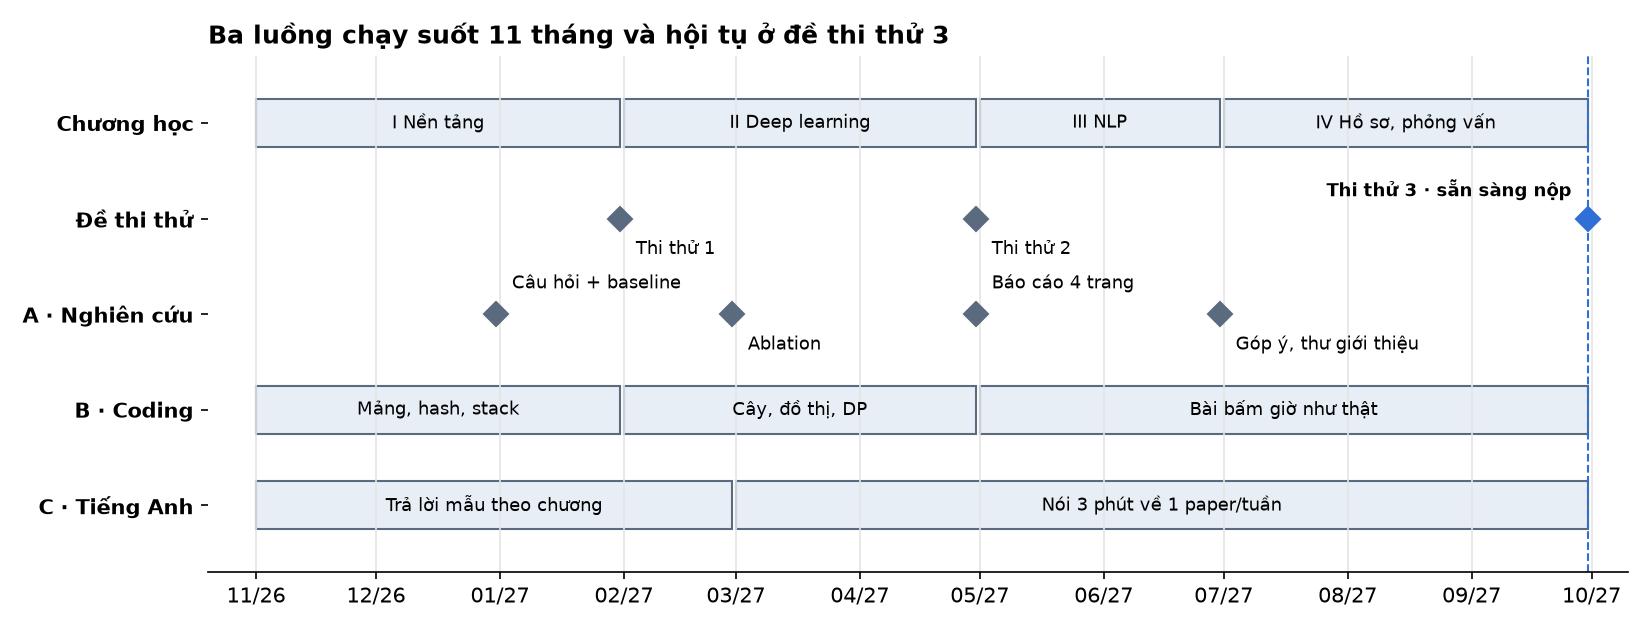
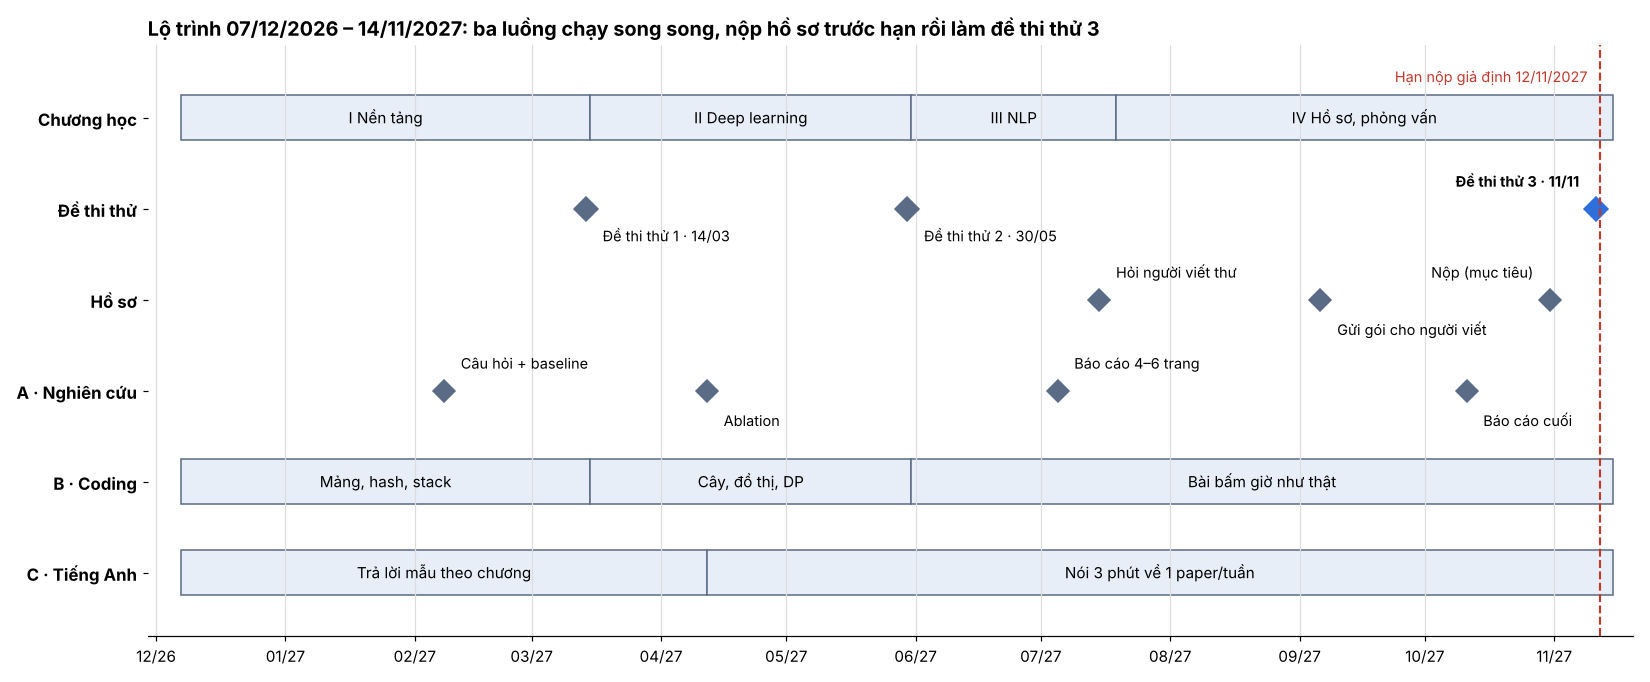
Dời lịch học sang bắt đầu 7/12/2026, giữ các mốc hồ sơ theo hạn nộp
- plan/weeks.yaml: lùi cả 49 tuần 6 tuần (tuần 0 bắt đầu Thứ Hai 7/12/2026).
- Các mốc hồ sơ bám hạn nộp giả định 12/11/2027, không dời theo lịch học:
  hỏi người viết thư trước 15/7 (w31), gửi gói tài liệu ở w39, nhắc 22/10
  và 5/11, mục tiêu nộp trước 31/10/2027 (w46).
- Đề thi thử: 14/3/2027, 30/5/2027, 11/11 và 13/11/2027 (chapters.yaml,
  chương 0, hướng dẫn, ba đề). Đề 3 nay làm sau khi đã nộp hồ sơ.
- Thêm plan/ve_lo_trinh.py và vẽ lại plan/lo-trinh.png theo lịch mới.

Claude-Session: https://claude.ai/code/session_01QKVDojY6bys5j2hGGRQu7z

diff --git a/plan/ve_lo_trinh.py b/plan/ve_lo_trinh.py
@@ -1,0 +1,86 @@
+"""Vẽ lại plan/lo-trinh.png từ plan/weeks.yaml và book/chapters.yaml.
+
+Chạy: python plan/ve_lo_trinh.py   (cần matplotlib, pyyaml)
+Mọi mốc lấy từ ngày bắt đầu tuần trong weeks.yaml, nên khi dời lịch chỉ cần chạy lại.
+"""
+import datetime as dt
+from pathlib import Path
+
+import matplotlib
+matplotlib.use("Agg")
+import matplotlib.dates as mdates
+import matplotlib.pyplot as plt
+import yaml
+
+ROOT = Path(__file__).resolve().parents[1]
+weeks = {w["id"]: w for w in yaml.safe_load((ROOT / "plan/weeks.yaml").read_text(encoding="utf-8"))["weeks"]}
+mocks = yaml.safe_load((ROOT / "book/chapters.yaml").read_text(encoding="utf-8"))["mock_tests"]
+
+
+def d(x):
+    return x if isinstance(x, dt.date) else dt.date.fromisoformat(str(x))
+
+
+def start(wid):
+    return d(weeks[wid]["start"])
+
+
+def end(wid):
+    return start(wid) + dt.timedelta(days=7)
+
+
+# Hạn nộp hồ sơ là GIẢ ĐỊNH (mục 13.4), không dời theo lịch học.
+DEADLINE = dt.date(2027, 11, 12)
+
+rows = ["Chương học", "Đề thi thử", "Hồ sơ", "A · Nghiên cứu", "B · Coding", "C · Tiếng Anh"]
+y = {r: len(rows) - i for i, r in enumerate(rows)}
+bars = {
+    "Chương học": [("w00", "w13", "I Nền tảng"), ("w14", "w24", "II Deep learning"),
+                   ("w25", "w31", "III NLP"), ("w32", "w48", "IV Hồ sơ, phỏng vấn")],
+    "B · Coding": [("w00", "w13", "Mảng, hash, stack"), ("w14", "w24", "Cây, đồ thị, DP"),
+                   ("w25", "w48", "Bài bấm giờ như thật")],
+    "C · Tiếng Anh": [("w00", "w17", "Trả lời mẫu theo chương"), ("w18", "w48", "Nói 3 phút về 1 paper/tuần")],
+}
+points = {
+    "A · Nghiên cứu": [(start("w09"), "Câu hỏi + baseline"), (start("w18"), "Ablation"),
+                       (start("w30"), "Báo cáo 4–6 trang"), (start("w44"), "Báo cáo cuối")],
+    "Hồ sơ": [(dt.date(2027, 7, 15), "Hỏi người viết thư"), (start("w39"), "Gửi gói cho người viết"),
+              (dt.date(2027, 10, 31), "Nộp (mục tiêu)")],
+}
+
+fig, ax = plt.subplots(figsize=(15, 6.2), dpi=110)
+for row, segs in bars.items():
+    for a, b, label in segs:
+        x0, x1 = mdates.date2num(start(a)), mdates.date2num(end(b))
+        ax.barh(y[row], x1 - x0, left=x0, height=0.5, color="#e8eef7", edgecolor="#5a6b85")
+        ax.text((x0 + x1) / 2, y[row], label, ha="center", va="center", fontsize=10)
+for row, pts in points.items():
+    for i, (day, label) in enumerate(pts):
+        ax.plot(mdates.date2num(day), y[row], "D", color="#5a6b85", ms=10)
+        right = i == len(pts) - 1 and row == "Hồ sơ"  # nhãn cuối nằm sát hạn nộp: đặt sang trái
+        ax.text(mdates.date2num(day) + (-4 if right else 4), y[row] + (0.3 if i % 2 == 0 else -0.33), label,
+                fontsize=9.5, va="center", ha="right" if right else "left")
+for i, m in enumerate(mocks):
+    last = i == len(mocks) - 1
+    ax.plot(mdates.date2num(d(m["date"])), y["Đề thi thử"], "D", color="#2f6fdb" if last else "#5a6b85", ms=11)
+    ax.text(mdates.date2num(d(m["date"])) + (-4 if last else 4), y["Đề thi thử"] + (0.3 if last else -0.3),
+            f"{m['name']} · {d(m['date']):%d/%m}", fontsize=9.5, ha="right" if last else "left",
+            fontweight="bold" if last else "normal", va="center")
+ax.axvline(mdates.date2num(DEADLINE), color="#c0392b", ls="--", lw=1.4)
+ax.text(mdates.date2num(DEADLINE) - 3, y["Chương học"] + 0.45, "Hạn nộp giả định 12/11/2027",
+        color="#c0392b", fontsize=9.5, ha="right", va="center")
+
+ax.set_yticks(list(y.values()), list(y.keys()), fontsize=11, fontweight="bold")
+ax.xaxis.set_major_locator(mdates.MonthLocator())
+ax.xaxis.set_major_formatter(mdates.DateFormatter("%m/%y"))
+ax.set_xlim(mdates.date2num(start("w00")) - 8, mdates.date2num(end("w48")) + 5)
+ax.set_ylim(0.3, len(rows) + 0.8)
+ax.grid(axis="x", color="#dddddd")
+for s in ("top", "right", "left"):
+    ax.spines[s].set_visible(False)
+ax.set_title(f"Lộ trình {start('w00'):%d/%m/%Y} – {end('w48') - dt.timedelta(days=1):%d/%m/%Y}: "
+             "ba luồng chạy song song, nộp hồ sơ trước hạn rồi làm đề thi thử 3",
+             loc="left", fontsize=13, fontweight="bold")
+fig.tight_layout()
+fig.savefig(ROOT / "plan/lo-trinh.png")
+print("Đã ghi", ROOT / "plan/lo-trinh.png")

diff --git a/book/thi-thu-3.md b/book/thi-thu-3.md
@@ -2,7 +2,7 @@
 
 ## Cách làm
 
-Đây là đề cuối của sách. Bạn làm nó ở tuần 48, vào hoặc quanh Thứ Năm 30/9/2027 (ngày ghi trong `book/chapters.yaml`), sau khi đã học xong chương 0–14. Lộ trình giao cho đề việc `w48-run`, 4 giờ: "Làm Đề thi thử 3 theo từng vòng, đúng giờ; sau đó chấm và ghi lỗi vào sổ lỗi". Đề có bốn vòng, xếp theo đúng thứ tự công khai của quy trình tuyển: entrance test, coding interview, video presentation, technical interview. Đề có hai mục đích. Một là đo lần cuối cả kiến thức lẫn cách trình bày khi bị bấm giờ. Hai là giúp bạn quyết định dùng mấy tuần còn lại trước hạn nộp hồ sơ vào việc gì.
+Đây là đề cuối của sách. Bạn làm nó ở tuần 48, vào hoặc quanh Thứ Năm 11/11/2027 (ngày ghi trong `book/chapters.yaml`), sau khi đã học xong chương 0–14. Lộ trình giao cho đề việc `w48-run`, 4 giờ: "Làm Đề thi thử 3 theo từng vòng, đúng giờ; sau đó chấm và ghi lỗi vào sổ lỗi". Đề có bốn vòng, xếp theo đúng thứ tự công khai của quy trình tuyển: entrance test, coding interview, video presentation, technical interview. Đề có hai mục đích. Một là đo lần cuối cả kiến thức lẫn cách trình bày khi bị bấm giờ. Hai là giúp bạn quyết định luyện gì cho các vòng sau Application. Theo lịch, bạn đã nộp hồ sơ ở tuần 46 nên đề này làm sau khi nộp.
 
 **Lưu ý trung thực.** Tin tuyển Batch 17 của Qualcomm RRP (đăng 13/10/2026, mức B) chỉ liệt kê năm vòng: Application → Entrance test → Coding interview → Video presentation → Technical interview. Nội dung, thời lượng, định dạng và tiêu chí chấm của bốn vòng sau Application đều không công khai (mức D; xem mục 13.1 và 14.1). Vì vậy đề này là **bản mô phỏng của sách**. Cơ cấu từng vòng, số phút, loại câu, thang điểm và mọi ngưỡng đọc kết quả đều do người soạn chọn hoặc ước lượng, và chưa được hiệu chỉnh trên người làm thật. Đề không mô phỏng vòng Application; vòng đó là gói hồ sơ bạn đã chuẩn bị ở chương 13. Danh sách vòng của đợt 2027 có thể khác Batch 17 (mục 13.1 ghi Batch 14 có thêm vòng Screening), nên hãy đọc lại tin tuyển của chính đợt bạn nộp.
 
@@ -10,14 +10,14 @@
 
 | Buổi | Mốc | Việc | Phút |
 | --- | --- | --- | --- |
-| 1 — Thứ Năm 30/9/2027 | 0:00–1:15 | Vòng 1 — Entrance test (giấy bút) | 75 |
+| 1 — Thứ Năm 11/11/2027 | 0:00–1:15 | Vòng 1 — Entrance test (giấy bút) | 75 |
 | 1 | 1:15–1:25 | Nghỉ | 10 |
 | 1 | 1:25–2:35 | Vòng 2 — Coding interview (máy tính, ghi âm) | 70 |
 | 1 | 2:35–2:45 | Nghỉ | 10 |
 | 1 | 2:45–3:25 | Lượt hai của Vòng 1 và Vòng 2 (tối đa 20 phút mỗi vòng) | 40 |
 | 1 | 3:25–3:55 | Chấm Vòng 1 theo Lời giải, gắn nhãn lỗi | 30 |
 | 1 | 3:55–4:10 | Chạy bộ chấm, chấm tay Vòng 2 từ bản ghi âm | 15 |
-| 2 — Thứ Bảy 2/10/2027 | 0:00–0:30 | Vòng 3 — Video presentation (quay một lần, tự xem lại, đánh dấu tiêu chí) | 30 |
+| 2 — Thứ Bảy 13/11/2027 | 0:00–0:30 | Vòng 3 — Video presentation (quay một lần, tự xem lại, đánh dấu tiêu chí) | 30 |
 | 2 | 0:30–0:35 | Nghỉ, người phỏng vấn vào | 5 |
 | 2 | 0:35–1:20 | Vòng 4 — Technical interview (với người khác, ghi hình) | 45 |
 | 2 | 1:20–1:30 | Người phỏng vấn điền phiếu chấm | 10 |
@@ -25,7 +25,7 @@
 | 2 | 1:50–1:55 | Mở file người phỏng vấn, đối chiếu ý đáp án, ghi sổ lỗi | 5 |
 | **Tổng** | | Buổi 1: 250; buổi 2: 115 | **365** |
 
-**Thời gian có đủ không.** Bốn vòng làm bài (không kể nghỉ và chấm) hết 75 + 70 + 30 + 45 = 220 phút. Cả đề hết 365 phút, tức khoảng 6.1 giờ, vượt 4 giờ của `w48-run` khoảng 2.1 giờ [ước lượng, chưa đo]. Theo `plan/weeks.yaml`, tuần 48 đang có 12.5 giờ; thay 4 giờ của `w48-run` bằng 6.1 giờ thì thành khoảng 14.6 giờ, vẫn dưới trần 15 giờ mỗi tuần mà Đề thi thử 2 dùng. Nếu tính bản quay ở Vòng 3 là lần quay đầu của việc `w48-c` (quay video bản cuối), `w48-c` bớt khoảng nửa giờ và tuần 48 còn khoảng 14.1 giờ. Lượt ba (làm nốt không tính giờ) nằm ngoài ngân sách này. Đề không khuyến nghị làm cả bốn vòng một buổi: riêng bốn vòng và ba lần nghỉ đã hết 245 phút, cộng phần chấm thành hơn 6 giờ liền. Việc `w48-c` nên làm **sau** Vòng 3, ví dụ Chủ nhật 3/10/2027, và dùng kết quả của Vòng 3 để sửa. Việc hẹn người phỏng vấn và gửi file cho họ nên làm từ tuần 47, trong việc `w47-plan`.
+**Thời gian có đủ không.** Bốn vòng làm bài (không kể nghỉ và chấm) hết 75 + 70 + 30 + 45 = 220 phút. Cả đề hết 365 phút, tức khoảng 6.1 giờ, vượt 4 giờ của `w48-run` khoảng 2.1 giờ [ước lượng, chưa đo]. Theo `plan/weeks.yaml`, tuần 48 đang có 12.5 giờ; thay 4 giờ của `w48-run` bằng 6.1 giờ thì thành khoảng 14.6 giờ, vẫn dưới trần 15 giờ mỗi tuần mà Đề thi thử 2 dùng. Nếu tính bản quay ở Vòng 3 là lần quay đầu của việc `w48-c` (quay video bản cuối), `w48-c` bớt khoảng nửa giờ và tuần 48 còn khoảng 14.1 giờ. Lượt ba (làm nốt không tính giờ) nằm ngoài ngân sách này. Đề không khuyến nghị làm cả bốn vòng một buổi: riêng bốn vòng và ba lần nghỉ đã hết 245 phút, cộng phần chấm thành hơn 6 giờ liền. Việc `w48-c` nên làm **sau** Vòng 3, ví dụ Chủ nhật 14/11/2027, và dùng kết quả của Vòng 3 để sửa. Việc hẹn người phỏng vấn và gửi file cho họ nên làm từ tuần 47, trong việc `w47-plan`.
 
 **Quy tắc chung.**
 
@@ -314,7 +314,7 @@ Bảng này chỉ dành cho Vòng 1. Ghi **điểm cuối** vào cột "Điểm 
 | 3 — Video | 12 tiêu chí | — | | Không có mốc: mỗi tiêu chí trượt là một việc sửa |
 | 4 — Technical interview | 30 | — | | ≥ 24 sẵn sàng; 18 đến dưới 24 luyện phần yếu nhất; dưới 18 quay về ngân hàng chuỗi (mốc của mục 14.5) |
 
-**Thời gian còn lại.** `plan/weeks.yaml` kết thúc ở tuần 48 (đến 3/10/2027). Hạn nộp hồ sơ của đợt 2027 chưa công bố tại thời điểm viết đề. Lịch ngược của chương 13 dùng hạn **giả định** 12/11/2027 (chưa xác minh, suy từ Batch 17). Nếu hạn đó đúng, từ 4/10 đến hạn còn 39 ngày, khoảng 5.6 tuần. Lịch của các vòng sau Application không công khai (mục 13.1); nếu chúng diễn ra sau hạn nộp [suy luận của người soạn, không có nguồn], thời gian luyện cho Vòng 2–4 thật có thể dài hơn. Mọi số giờ dưới đây là **đề xuất ngoài lộ trình**: bạn tự quyết, và nên giữ dưới trần 15 giờ mỗi tuần.
+**Thời gian còn lại.** `plan/weeks.yaml` kết thúc ở tuần 48 (đến 14/11/2027). Hạn nộp hồ sơ của đợt 2027 chưa công bố tại thời điểm viết đề. Lịch ngược của chương 13 dùng hạn **giả định** 12/11/2027 (chưa xác minh, suy từ Batch 17), và lộ trình đặt mục tiêu nộp trước 31/10/2027 (tuần 46), nên khi làm đề này bạn đã nộp xong. Lịch của các vòng sau Application không công khai (mục 13.1); nếu chúng diễn ra sau hạn nộp [suy luận của người soạn, không có nguồn], quỹ thời gian để sửa theo kết quả dưới đây bắt đầu từ 15/11/2027 và dài bao nhiêu thì chưa biết. Mọi số giờ dưới đây là **đề xuất ngoài lộ trình**: bạn tự quyết, và nên giữ dưới trần 15 giờ mỗi tuần.
 
 **Quy tắc một dòng.** Sửa vòng yếu nhất trước, nhưng không bỏ vòng nào quá một tuần: các vòng thật diễn ra liên tiếp, và mỗi vòng loại một số ứng viên [suy luận của người soạn từ cấu trúc nhiều vòng, không có số liệu công khai].
 
@@ -510,7 +510,7 @@ Tái lập: từ thư mục gốc repo, chạy bốn script trên bằng `/home/
 | B1 | NLL 1.7269, 1.5537, 1.4299; −ln 0.35 = 1.0498 và −ln 0.15 = 1.8971 (cho sẵn 1.050 và 1.897); perplexity 5.62, 4.73, 4.18; cận 1.6403; ℓ′(0.5) = −10/21; EM 0.4702; w* 0.410, NLL 1.4246 | NumPy, autograd cho ℓ′, `minimize_scalar` và EM 500 vòng hội tụ cùng chỗ; tính lại bằng bảng hằng số lệch dưới 2·10⁻⁴ | khớp |
 | B2 | 0.65, 0.8, 0.25; 0.6075; 0.6625, 0.6595; 0.215, 0.39; 209, 71, 0.70, 0.746, 0.345; 0.5225; SE 0.0194; 0.155; 64 027 và 130 667; kết hợp 0.7225, cộng riêng 0.7145, tương tác 0.008, SE tương tác 0.027 | tính trực tiếp; độ mạnh ở n = 400 mô phỏng 20 000 lần (seed 11) dưới 0.07 | khớp |
 | Vòng 3 | 20, 25, 45, 45, 25, 20 cộng 180; mốc 0:20 … 3:00; 47, 58, 105, 105, 58, 47 từ | cộng dồn; 140 từ/phút | khớp |
-| Lịch | 30/9/2027 Thứ Năm, 2/10/2027 Thứ Bảy, 3/10/2027 Chủ nhật; 39 ngày từ 4/10 đến 12/11/2027; hai buổi 250 + 115 = 365 phút; tuần 48: 12.5 − 4 + 365/60 ≈ 14.6 giờ | `datetime`, `plan/weeks.yaml` | khớp |
+| Lịch | 11/11/2027 Thứ Năm, 13/11/2027 Thứ Bảy, 14/11/2027 Chủ nhật; nộp trước 31/10/2027 là 12 ngày trước 12/11/2027; hai buổi 250 + 115 = 365 phút; tuần 48: 12.5 − 4 + 365/60 ≈ 14.6 giờ | `datetime`, `plan/weeks.yaml` | khớp |
 
 **Bộ chấm bám thang điểm.** Mỗi bài làm cố ý chỉ viết một bài (bài kia để `NotImplementedError`), trừ lời giải mẫu.
 
@@ -565,6 +565,6 @@ Trên máy kiểm, lời giải mẫu chạy test tốc độ hết khoảng 0.1
 2. Cả đề cần khoảng 365 phút kể cả lượt hai và chấm (khoảng 6.1 giờ), vượt 4 giờ của `w48-run`. Đề chia hai buổi (250 và 115 phút), làm tuần 48 thành khoảng 14.6 giờ, hoặc 14.1 giờ nếu bản quay ở Vòng 3 được tính là lần quay đầu của `w48-c`. Sửa `plan/weeks.yaml` cho khớp thuộc bước merge. Nếu muốn giữ đúng 4 giờ thì phải bỏ lượt hai và dời phần chấm sang tuần sau.
 3. Chương 13 không có thang điểm cho video. Vòng 3 vì thế ghi số tiêu chí đạt trên 12, mỗi tiêu chí trỏ tới một chỗ có thật của chương 13, và không có ngưỡng đạt. Nếu muốn có điểm, có thể dùng thêm hai dòng "Đào sâu dự án" và "Cách nói" của thang 30 điểm (chương 14 đã dùng chúng cho khung trình bày 5 phút ở mục 14.4), nhưng đó là thang của chương 14, không phải của chương 13.
 4. Vòng 4 dùng thang 30 điểm của mục 14.5 với một điều chỉnh của đề: dòng Hành vi chấm một câu chuyện, mỗi tiêu chí 1 điểm thay vì hai câu chuyện mỗi tiêu chí 0.5. Bốn chuỗi mới nằm trong file người phỏng vấn; người phỏng vấn chỉ bốc 2 để khớp dòng "Kỹ thuật (2 chuỗi)"; 2 chuỗi còn lại để luyện sau.
-5. Mốc 15 và 10 điểm của Vòng 2 và các số giờ ôn ở mục Tổng kết là heuristic của sách. Thời điểm của các vòng sau Application chưa công khai, nên "khoảng 5.6 tuần" chỉ đúng nếu hạn nộp giả định 12/11/2027 đúng.
+5. Mốc 15 và 10 điểm của Vòng 2 và các số giờ ôn ở mục Tổng kết là heuristic của sách. Thời điểm của các vòng sau Application chưa công khai, nên quỹ thời gian sau đề này chưa biết. Mục tiêu nộp trước 31/10/2027 chỉ an toàn nếu hạn thật không sớm hơn hạn giả định 12/11/2027; nếu trang chính thức công bố hạn sớm hơn, kéo việc nộp lên theo.
 6. Đề chưa được đăng ký trong `book/chapters.yaml` và `book/_toc.yml` (phiên này không được sửa hai file đó), nên app chưa có trang "Sách → Đề thi thử 3". Việc này thuộc bước merge. File người phỏng vấn `labs/thi-thu-3/nguoi-phong-van.md` cố ý không đăng ký vào app, để người làm đề không lướt thấy nó.
 7. Ước lượng 78 phút của Vòng 1 vẫn vượt giờ thi khoảng 4%. Nếu đo thật vẫn vượt nhiều, chỗ nên cắt tiếp là B2(b)(iii).

diff --git a/book/huong-dan.md b/book/huong-dan.md
@@ -59,9 +59,9 @@
 
 ## Đề cương toàn bộ sách
 
-Sách gồm 14 chương lõi, 3 đề thi thử và 3 luồng việc chạy song song từ tuần đầu tiên, kéo dài từ tháng 11/2026 đến tháng 9/2027. Mốc nộp hồ sơ là đợt tuyển cuối năm 2027, với giả định ngành của bạn học 4 năm (cần xác nhận). Chương 0–13 đã có trong app; chương 14 và ba đề thi thử được bổ sung trước tuần cần dùng. Chương chưa viết hiện tên trong app nhưng chưa mở được.
+Sách gồm 14 chương lõi, 3 đề thi thử và 3 luồng việc chạy song song từ tuần đầu tiên, kéo dài từ 7/12/2026 đến giữa tháng 11/2027. Mốc nộp hồ sơ là đợt tuyển cuối năm 2027, với giả định ngành của bạn học 4 năm (cần xác nhận). Chương 0–13 đã có trong app; chương 14 và ba đề thi thử được bổ sung trước tuần cần dùng. Chương chưa viết hiện tên trong app nhưng chưa mở được.
 
-**Phần I — Nền tảng (tháng 11/2026 – 1/2027, 12 tuần)**
+**Phần I — Nền tảng (tháng 12/2026 – 3/2027, 12 tuần)**
 
 0. Bài chẩn đoán đầu vào — 30 câu, chấm theo chương để biết nên học kỹ chương nào.
 1. **Đại số tuyến tính cho ML** — ma trận là phép biến đổi, hạng, phép chiếu, QR, trị riêng, SVD, PCA.
@@ -71,9 +71,9 @@ Sách gồm 14 chương lõi, 3 đề thi thử và 3 luồng việc chạy song
 5. ML cổ điển — hồi quy, phân loại, bias–variance, regularization, SVM và kernel, cây và boosting, k-means, GMM/EM.
 6. Mạng nơ-ron từ con số 0 — MLP bằng NumPy rồi PyTorch, khởi tạo, normalization, cách debug khi loss không giảm.
 
-→ **Đề thi thử 1** (cuối tháng 1/2027, bấm giờ 120 phút).
+→ **Đề thi thử 1** (14/3/2027, bấm giờ 120 phút).
 
-**Phần II — Deep learning hiện đại (tháng 2 – 4/2027, 12 tuần)**
+**Phần II — Deep learning hiện đại (tháng 3 – 5/2027, 12 tuần)**
 
 7. CNN và thị giác máy tính — convolution, ResNet, augmentation, ViT.
 8. Attention và Transformer — RNN và vanishing gradient, self-attention, positional encoding, KV cache.
@@ -81,25 +81,25 @@ Sách gồm 14 chương lõi, 3 đề thi thử và 3 luồng việc chạy song
 10. Mô hình sinh và học tự giám sát — VAE, diffusion, contrastive learning.
 11. Phương pháp thực nghiệm và đọc paper — đánh giá đúng, ablation, nhiều seed, khoảng tin cậy; phiếu đọc 8 paper kinh điển.
 
-→ **Đề thi thử 2** (18/4/2027, cuối tuần 24).
+→ **Đề thi thử 2** (30/5/2027, cuối tuần 24).
 
-**Phần III — Chuyên sâu NLP (tháng 5 – 6/2027)**
+**Phần III — Chuyên sâu NLP (tháng 6 – 7/2027)**
 
 12. Nhánh chuyên sâu và đạo đức AI: NLP, trọng tâm là LLM, retrieval (RAG) và trích xuất tri thức; đọc 10 paper gần đây của hướng này, nối thẳng với dự án ở luồng A; thêm một buổi về bias, quyền riêng tư và đánh giá rủi ro.
 
-**Phần IV — Hồ sơ và phỏng vấn (tháng 7 – 9/2027)**
+**Phần IV — Hồ sơ và phỏng vấn (tháng 7 – 11/2027)**
 
 13. Hồ sơ và video presentation — CV, research statement, thư giới thiệu, kịch bản trình bày dự án bằng tiếng Anh, thang tự chấm.
 14. Technical interview — ngân hàng chuỗi câu hỏi tổng hợp và câu hỏi hành vi, luyện bằng tiếng Anh.
 
-→ **Đề thi thử 3** (tháng 9/2027, mô phỏng đủ các vòng).
+→ **Đề thi thử 3** (11/11/2027, sau khi nộp hồ sơ, mô phỏng đủ các vòng).
 
 **Ba luồng chạy song song suốt kế hoạch.** Dự án nghiên cứu và coding không phải một chương học một lần, mà là việc làm đều mỗi tuần.
 
 - **Luồng A — Dự án nghiên cứu (3–4 giờ/tuần).** Lấy một dự án đang làm trên trường làm nền, nâng lên mức nghiên cứu: câu hỏi rõ, baseline, ablation, báo cáo. Đây là tín hiệu mạnh nhất của hồ sơ track Research và là nguồn thư giới thiệu.
 - **Luồng B — Coding (3–4 bài/tuần).** Đi từ mảng, hash, hai con trỏ, stack sang cây, đồ thị, quy hoạch động, cuối cùng là bài bấm giờ như phỏng vấn thật.
-- **Luồng C — Tiếng Anh và trình bày (1 giờ/tuần).** Mỗi chương có câu trả lời mẫu bằng tiếng Anh và một bài dựng cảnh Manim. Từ tháng 3/2027, mỗi tuần nói 3 phút về một paper, ghi âm và tự nghe lại.
+- **Luồng C — Tiếng Anh và trình bày (1 giờ/tuần).** Mỗi chương có câu trả lời mẫu bằng tiếng Anh và một bài dựng cảnh Manim. Từ tháng 4/2027, mỗi tuần nói 3 phút về một paper, ghi âm và tự nghe lại.
 
-![Lộ trình 11/2026 – 9/2027](../plan/lo-trinh.png)
+![Lộ trình 12/2026 – 11/2027](../plan/lo-trinh.png)
 
 Đọc theo cột: tháng nào bạn cũng làm cả bốn việc — học chương, dự án, coding, tiếng Anh. Mốc của dự án nghiên cứu được đặt trùng hoặc ngay trước đề thi thử để mỗi đợt kiểm tra cũng là một lần rà lại hồ sơ.
